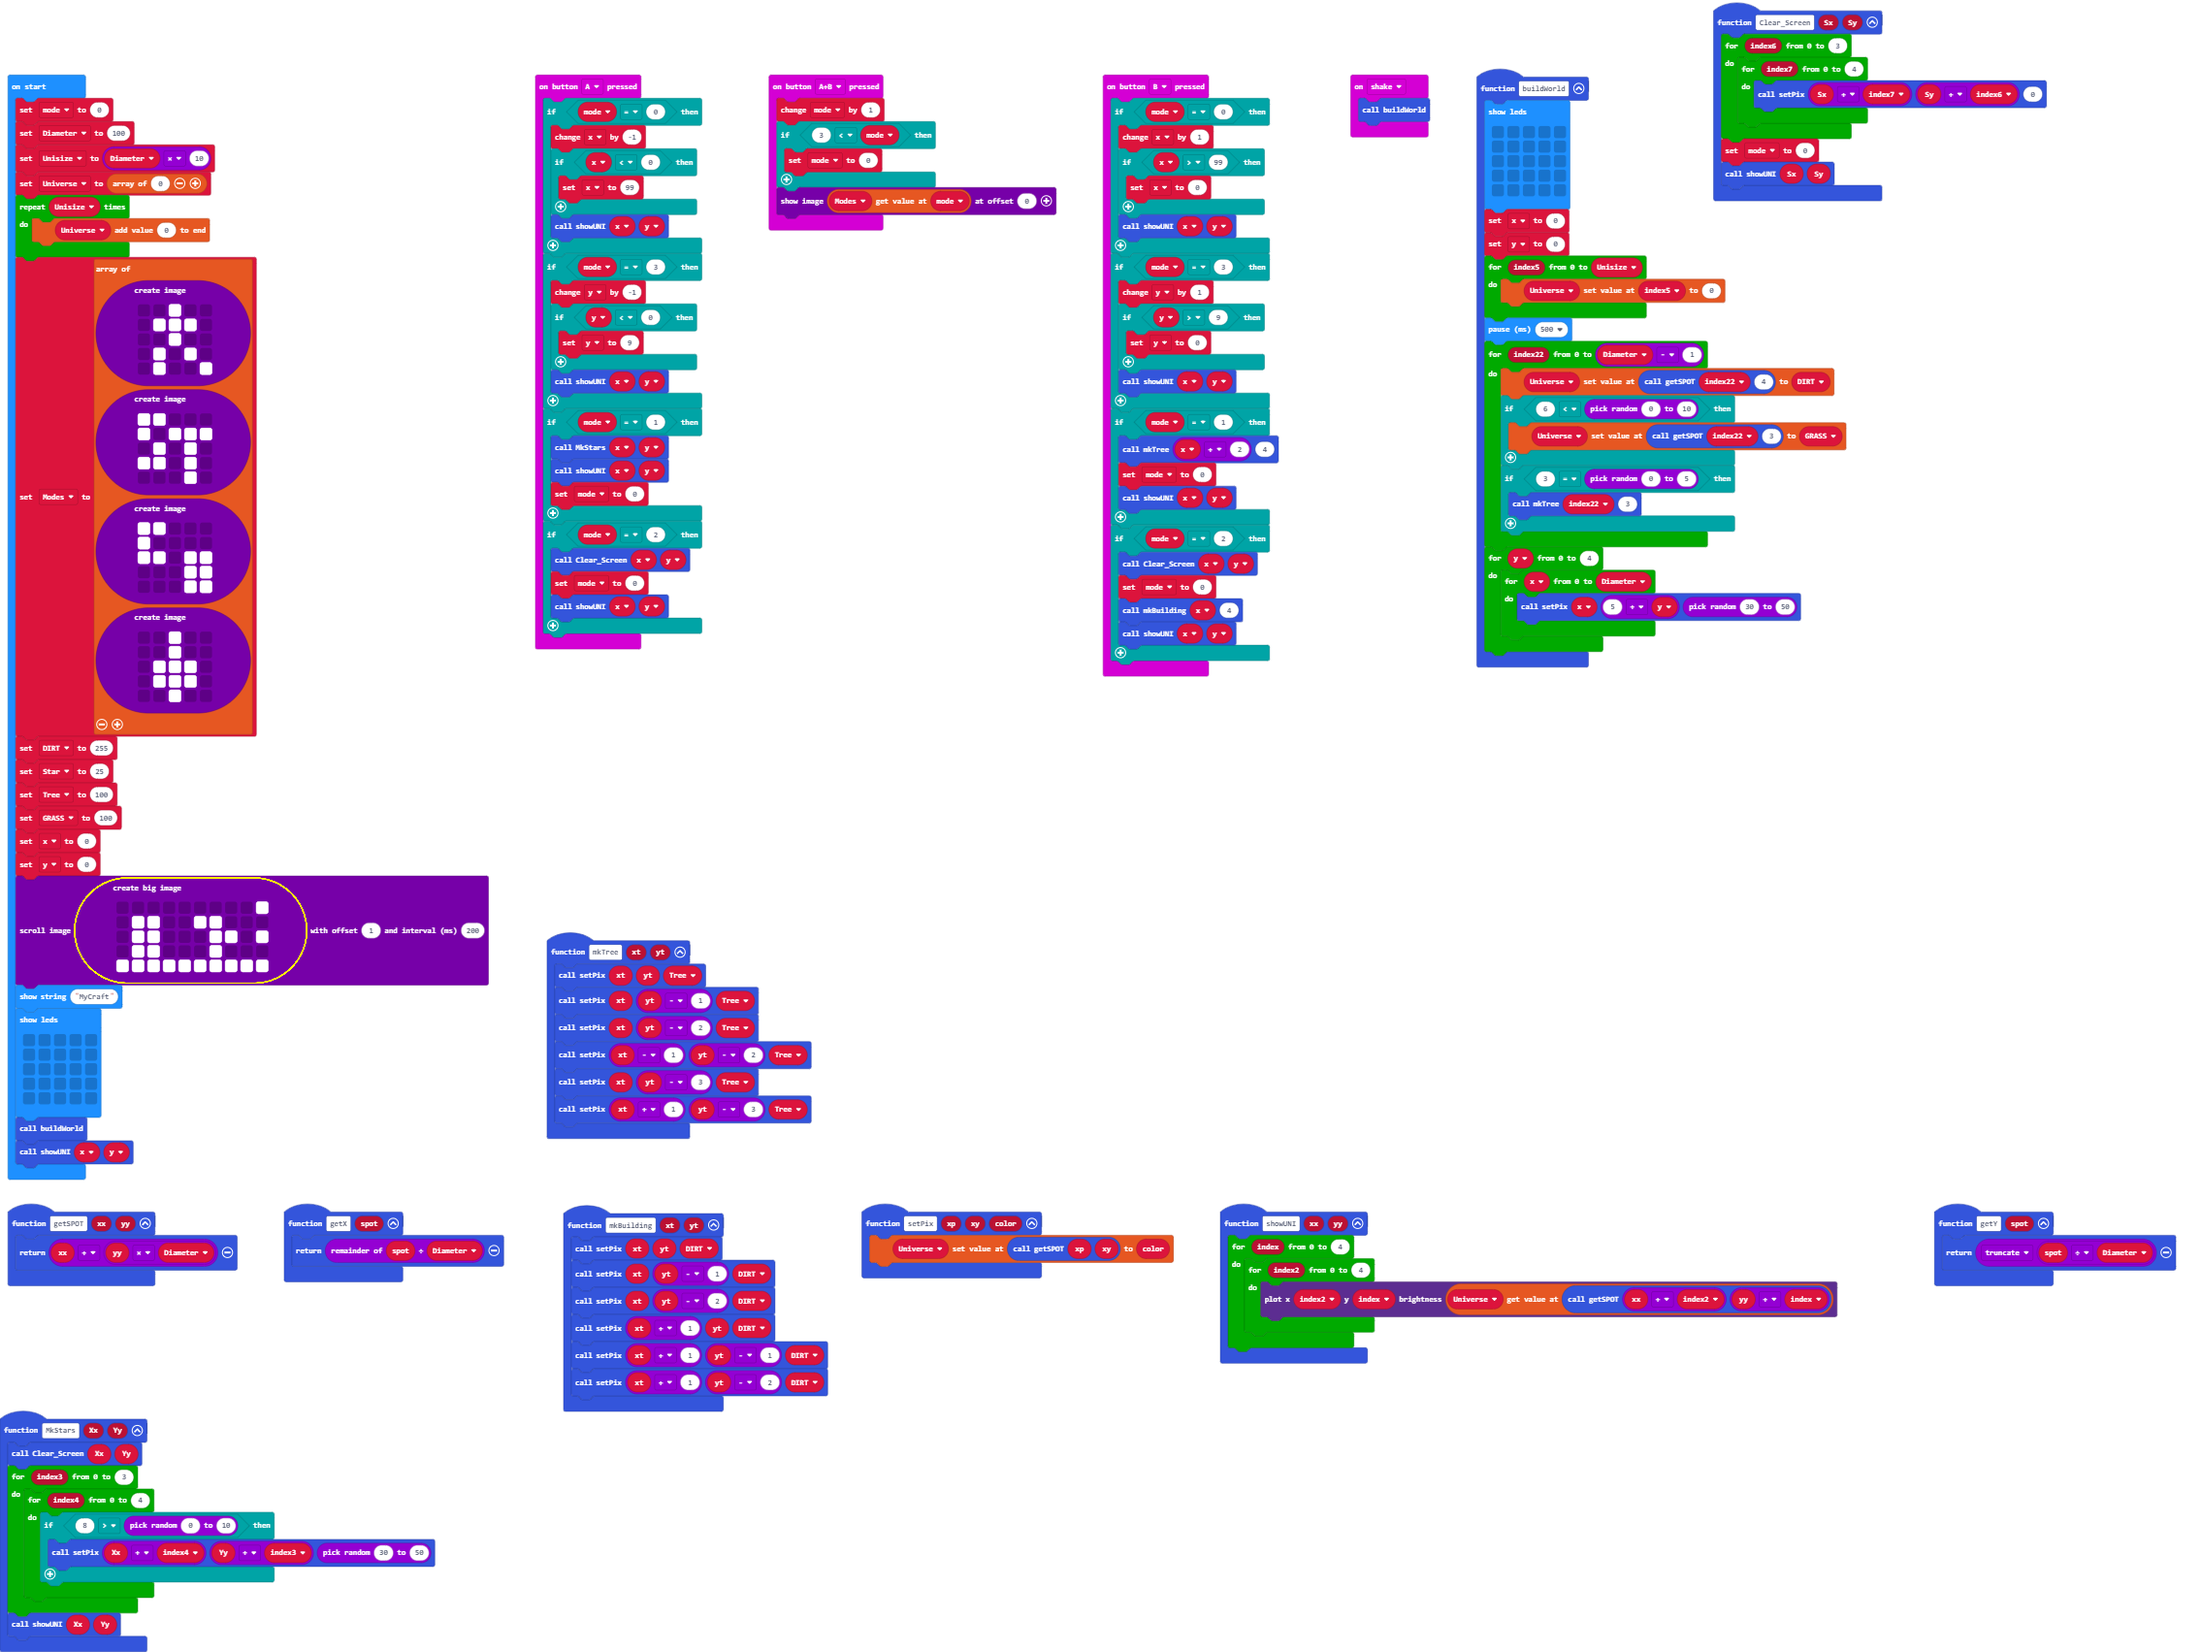
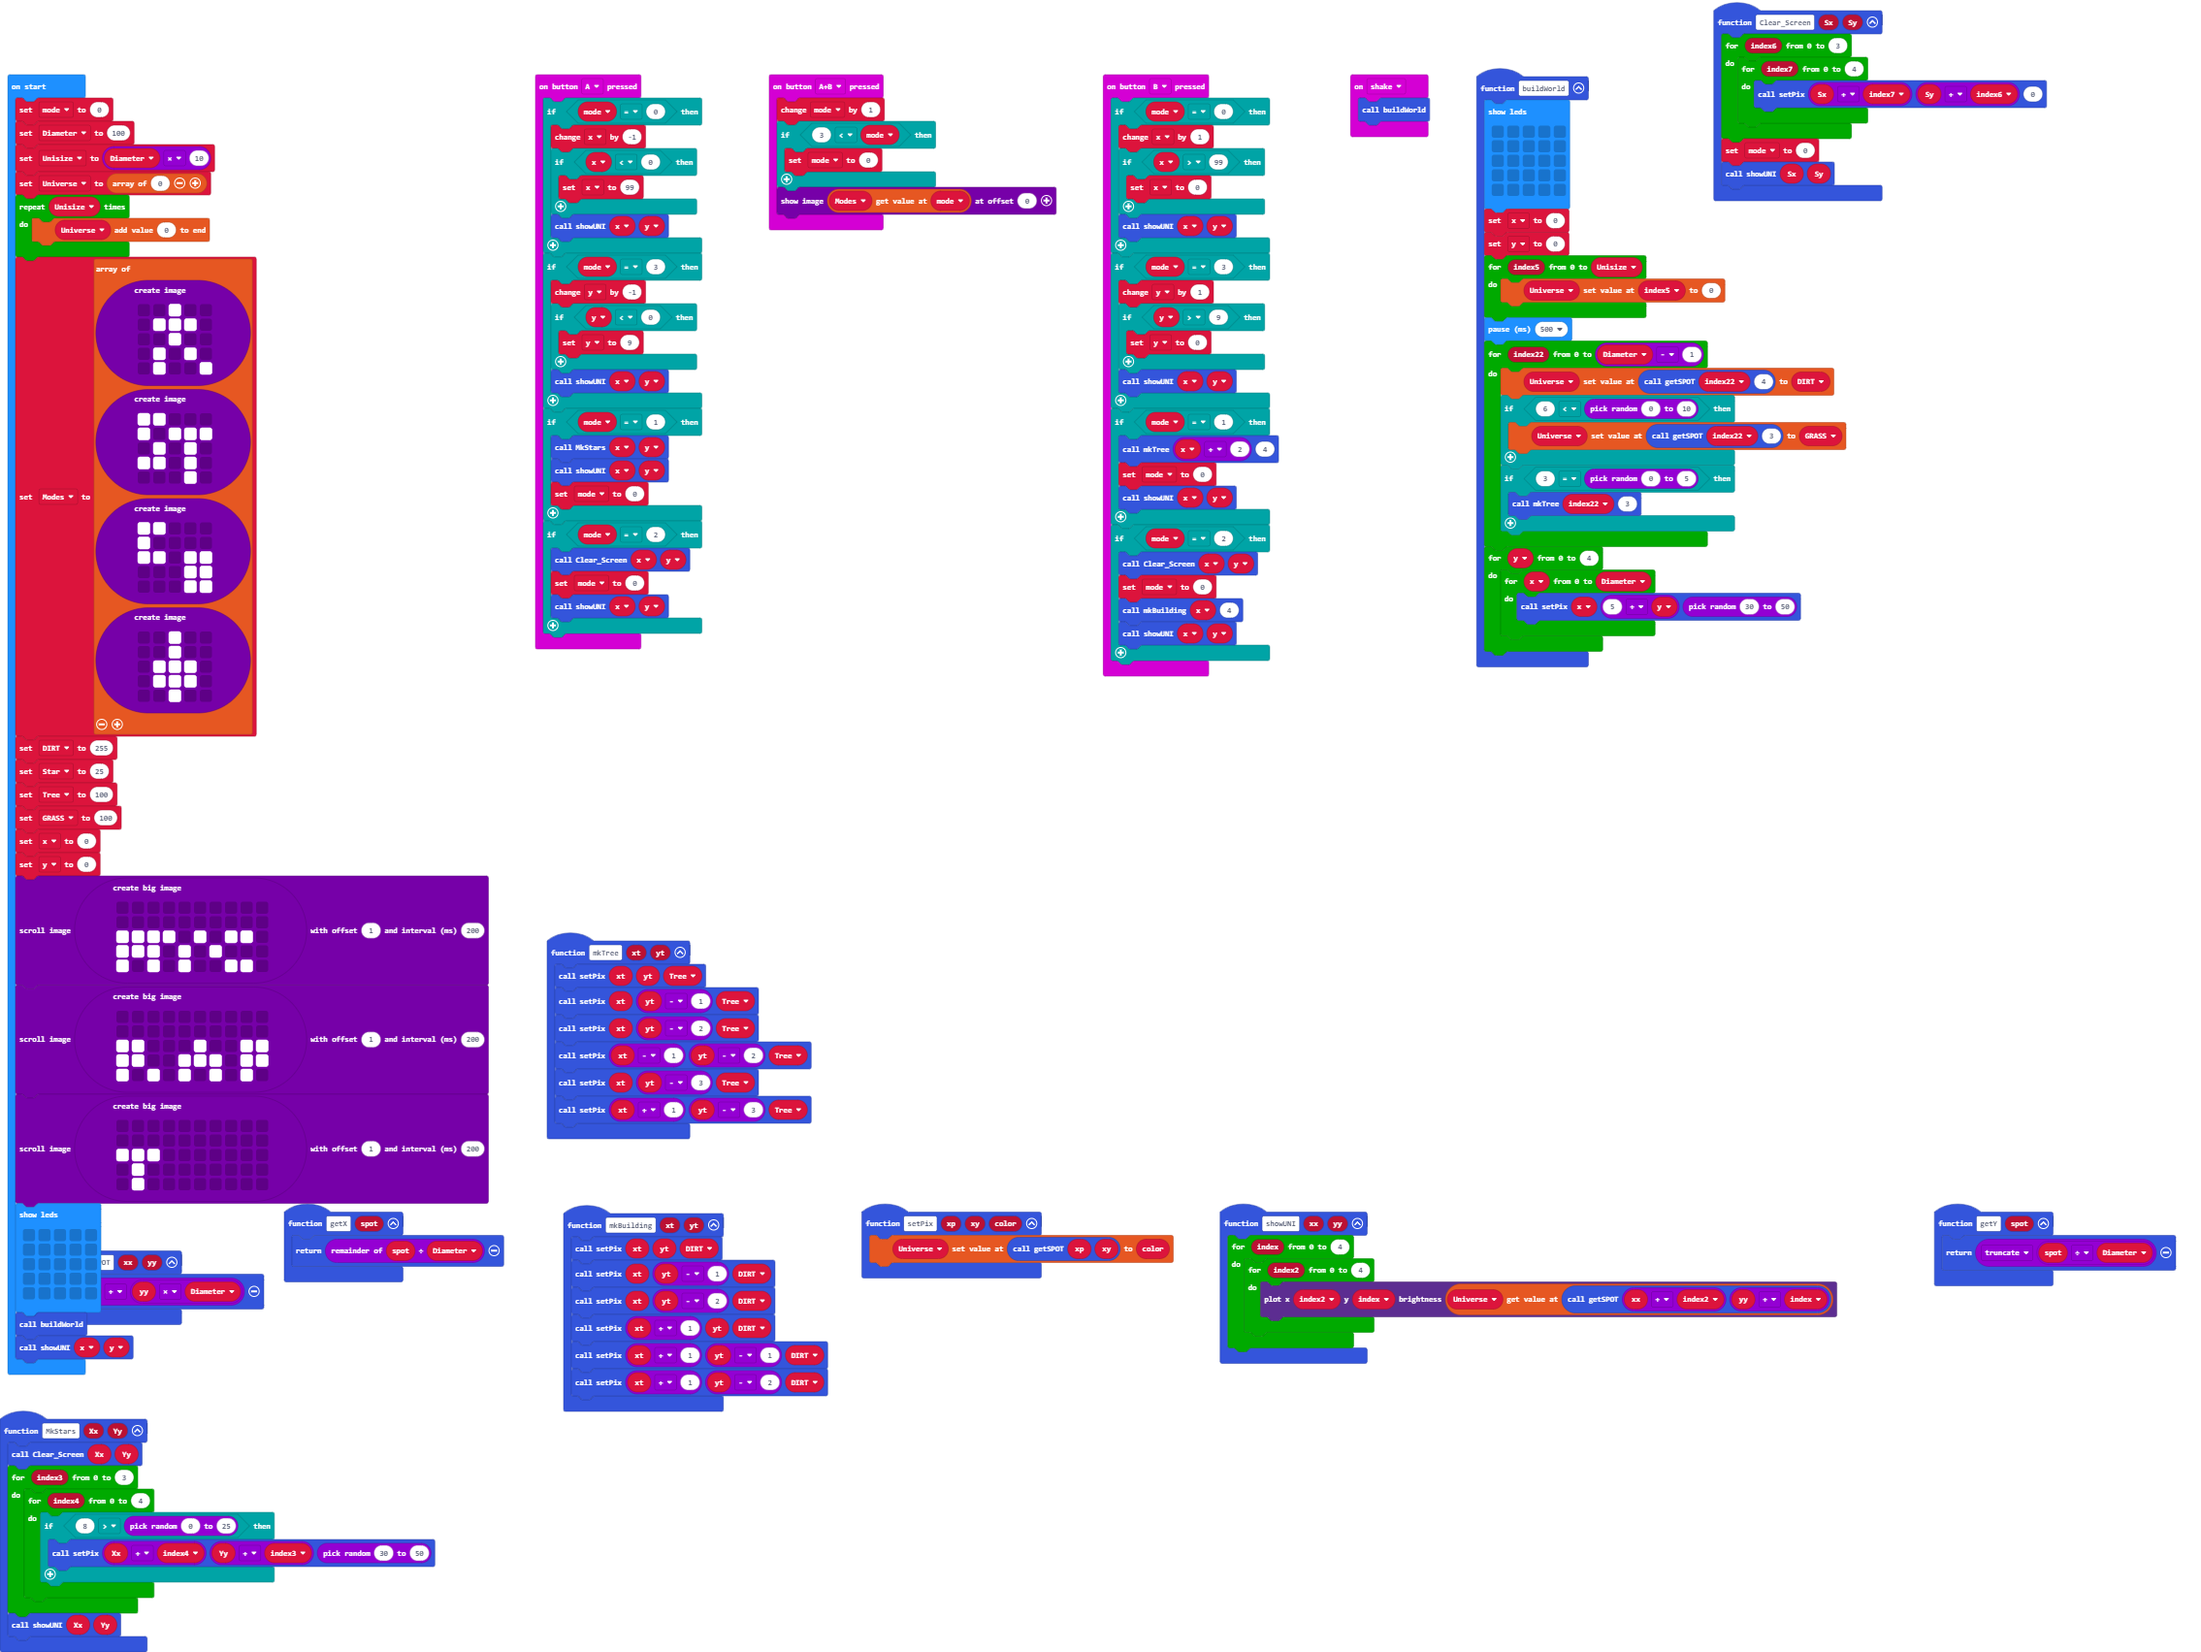
Update main.blocks, main.ts

diff --git a/main.ts b/main.ts
@@ -12,7 +12,7 @@ function MkStars (Xx: number, Yy: number) {
     Clear_Screen(Xx, Yy)
     for (let index3 = 0; index3 <= 3; index3++) {
         for (let index4 = 0; index4 <= 4; index4++) {
-            if (8 > randint(0, 10)) {
+            if (8 > randint(0, 25)) {
                 setPix(Xx + index4, Yy + index3, randint(30, 50))
             }
         }
@@ -199,13 +199,26 @@ GRASS = 100
 x = 0
 y = 0
 images.createBigImage(`
-    . . . . . . . . . #
-    . # # . . # # . . .
-    . # # . . . # # . #
-    . # # . . . # . . .
-    # # # # # # # # # #
+    . . . . . . . . . .
+    . . . . . . . . . .
+    # # # # . # . # # .
+    # # # . # . # . . .
+    # . # . # . . # # .
     `).scrollImage(1, 200)
-basic.showString("MyCraft")
+images.createBigImage(`
+    . . . . . . . . . .
+    . . . . . . . . . .
+    # # . . . # . . # #
+    # # . . # # # . # #
+    # . # . # . # . # .
+    `).scrollImage(1, 200)
+images.createBigImage(`
+    . . . . . . . . . .
+    . . . . . . . . . .
+    # # # . . . . . . .
+    . # . . . . . . . .
+    . # . . . . . . . .
+    `).scrollImage(1, 200)
 basic.showLeds(`
     . . . . .
     . . . . .
